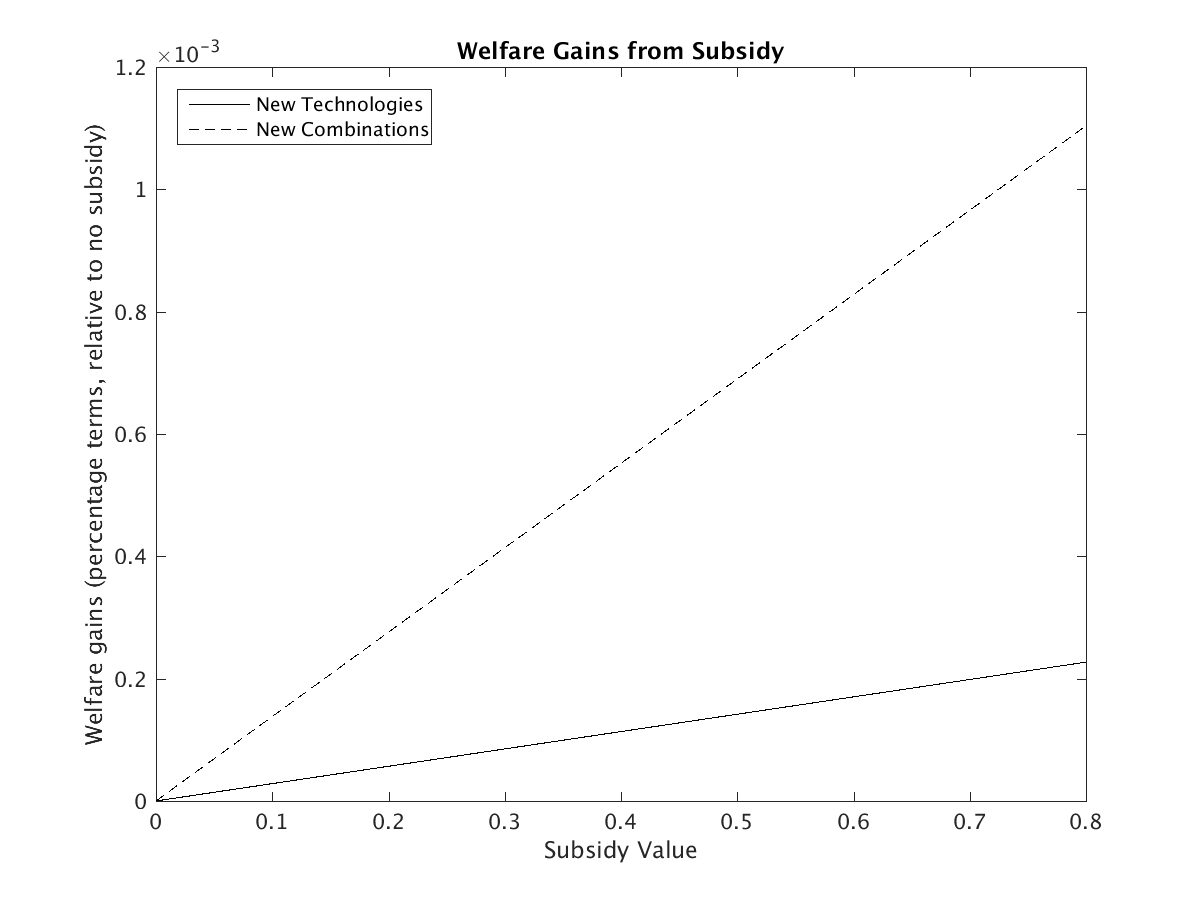
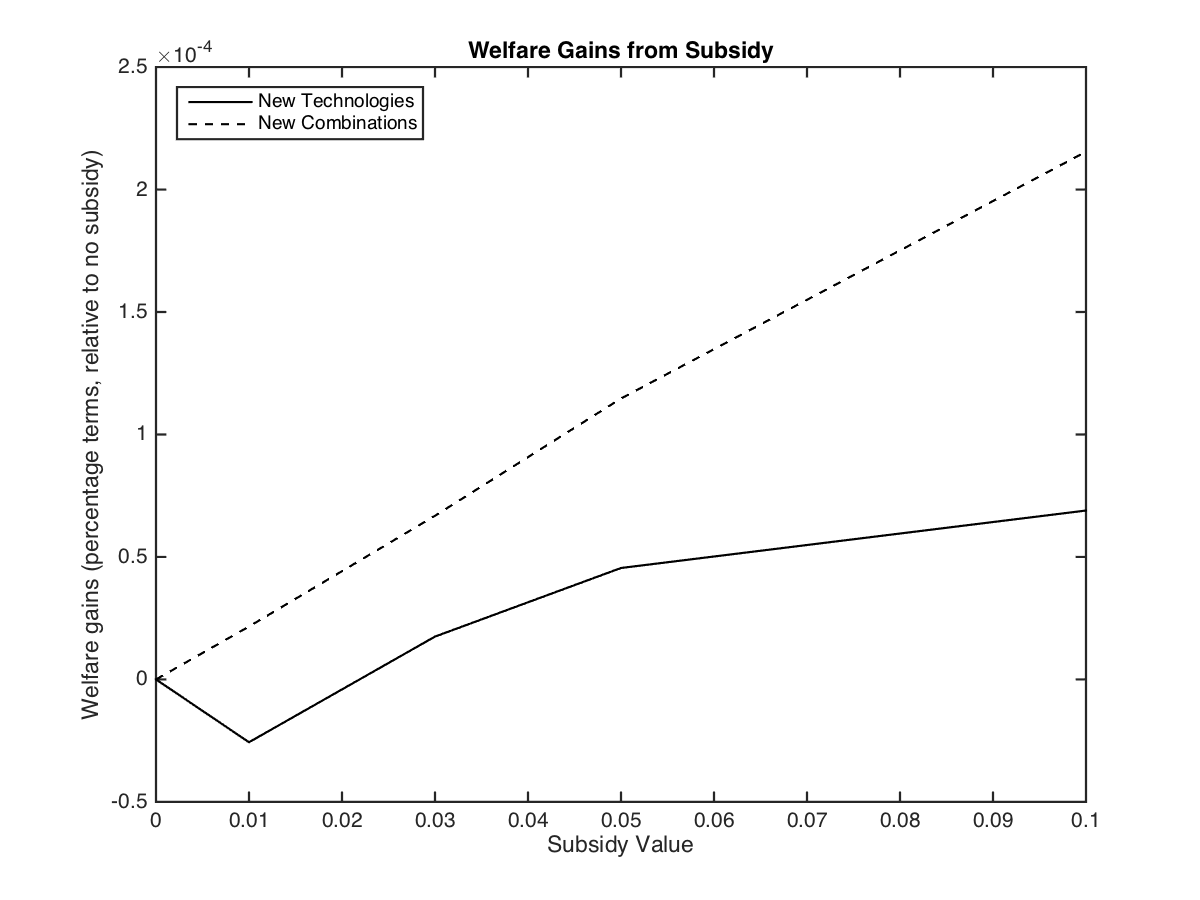
paralell loops in simulation

diff --git a/simulations/consolidated/run_simulation.m b/simulations/consolidated/run_simulation.m
@@ -2,9 +2,10 @@ clear
 close all
 clc
 
-%cd('/Users/alexandresollaci/Documents/UChicago/RA/Combinatorial growth/combinatorial_growth/simulations/consolidated/')
+cd('/Users/alexandresollaci/Documents/UChicago/RA/Combinatorial growth/combinatorial_growth/simulations/consolidated/')
 
-rng(10)
+%delete(gcp)
+%parpool(2)
 
 %% Parameters
 
@@ -30,7 +31,7 @@ params = v2struct(etaH, etaM, etaL, tau, phi, lambda, kappa, xi, zeta, gamma, ep
 
 beg_inv = exp(6);       % number of inventors, chosen to match initial number of patents
 beg_year = 1836;        % beginning year
-Tbase = 180;            % number of periods to run baseline simulation
+Tbase = 20;            % number of periods to run baseline simulation
 Tsubs = 20;             % number of periods to run subsidy simulation
 Tmax = Tbase + Tsubs;
 
@@ -72,34 +73,36 @@ policy_cost = zeros(Tmax, num_simul);
 nrofpatents = zeros(Tmax, num_simul);
 welfare = zeros(2, num_simul);
 
-subsidy_vals = [.05 .1 .15 .2];
+subsidy_vals = [.01 .03 .05 .1];
 subsidy = [subsidy_vals' zeros(length(subsidy_vals),1); ...
             zeros(length(subsidy_vals),1) subsidy_vals']; % subsidy for [new tech, new comb]
 
-patmat_subs = zeros(Tmax+1, 4, num_simul, length(subsidy));
-growth_subs = zeros(Tmax, num_simul, length(subsidy));
-consumption_subs = zeros(Tmax, num_simul, length(subsidy));
-GDP_subs = zeros(Tmax, num_simul, length(subsidy));
-firm_cost_subs = zeros(Tmax, num_simul, length(subsidy));
-inventor_cost_subs = zeros(Tmax, num_simul, length(subsidy));
-policy_cost_subs = zeros(Tmax, num_simul, length(subsidy));
-nrofpatents_subs = zeros(Tmax, num_simul, length(subsidy));
-welfare_subs = zeros(2, num_simul, length(subsidy));
+patmat_subs = zeros(Tmax+1, 4, length(subsidy), num_simul);
+growth_subs = zeros(Tmax, length(subsidy), num_simul);
+consumption_subs = zeros(Tmax, length(subsidy), num_simul);
+GDP_subs = zeros(Tmax, length(subsidy), num_simul);
+firm_cost_subs = zeros(Tmax, length(subsidy), num_simul);
+inventor_cost_subs = zeros(Tmax, length(subsidy), num_simul);
+policy_cost_subs = zeros(Tmax, length(subsidy), num_simul);
+nrofpatents_subs = zeros(Tmax, length(subsidy), num_simul);
+welfare_subs = zeros(2, length(subsidy), num_simul);
+
+pat0 = repmat([beg_year, 1, 0, 0], 1, 1, length(subsidy));
 
 for s = 1:num_simul
     seed1 = 1000*rand;
     model_plain = simulate_model(params, Tbase, beg_year, beg_inv, Mmat0, patmat0, state0, quality0, [0 0], seed1);
 
+    % generate variables that will be input into second half of simulations (with subsidy)
     Mmat = model_plain.Mmat;
     state = model_plain.state;
     quality = model_plain.quality;
     nrofinv = model_plain.nrofinv;
-
     seed2 = 1000*rand;
     
     model_subs_0 = simulate_model(params, Tsubs, beg_year+Tbase, nrofinv, Mmat, patmat1, state, quality, [0 0], seed2);
 
-    % In period 0, all ideas are new.
+    % store result of simulation without subsidy
     patmat(:,:,s) = [[beg_year, 1, 0, 0]; model_plain.patmat; model_subs_0.patmat];
     nrofpatents(:,s) = [model_plain.nrofpatents; model_subs_0.nrofpatents];
     consumption(:,s) = [model_plain.consumption; model_subs_0.consumption];
@@ -110,22 +113,45 @@ for s = 1:num_simul
     growth(:,s) = [model_plain.growth; model_subs_0.growth];
     welfare(:,s) = [model_plain.welfare; model_subs_0.welfare];
 
-    for v = 1:length(subsidy)
+    % Initialize variables for inner loop (parfor)
+    patmat_temp = zeros(Tsubs, 4, length(subsidy));
+    nrofpatents_temp = zeros(Tsubs, length(subsidy));
+    consumption_temp = zeros(Tsubs, length(subsidy));
+    GDP_temp = zeros(Tsubs, length(subsidy));
+    firm_cost_temp = zeros(Tsubs, length(subsidy));
+    inventor_cost_temp = zeros(Tsubs, length(subsidy));
+    policy_cost_temp = zeros(Tsubs, length(subsidy));
+    growth_temp = zeros(Tsubs, length(subsidy));
+    welfare_temp = zeros(1, length(subsidy));
+
+    parfor v = 1:length(subsidy)
 
         model_subs_1 = simulate_model(params, Tsubs, beg_year+Tbase, nrofinv, Mmat, patmat1, state, quality, subsidy(v,:), seed2);
 
-        patmat_subs(:,:,s,v) = [[beg_year, 1, 0, 0]; model_plain.patmat; model_subs_1.patmat];
-        nrofpatents_subs(:,s,v) = [model_plain.nrofpatents; model_subs_1.nrofpatents];
-        consumption_subs(:,s,v) = [model_plain.consumption; model_subs_1.consumption];
-        GDP_subs(:,s,v) = [model_plain.GDP; model_subs_1.GDP];
-        firm_cost_subs(:,s,v) = [model_plain.firm_cost; model_subs_1.firm_cost];
-        inventor_cost_subs(:,s,v) = [model_plain.inventor_cost; model_subs_1.inventor_cost];
-        policy_cost_subs(:,s,v) = [model_plain.policy_cost; model_subs_1.policy_cost];
-        growth_subs(:,s,v) = [model_plain.growth; model_subs_1.growth];
-        welfare_subs(:,s,v) = [model_plain.welfare; model_subs_1.welfare];
+        % store values in temporary variables so that parfor does generate a classification error
+        patmat_temp(:,:,v) = model_subs_1.patmat;
+        nrofpatents_temp(:,v) = model_subs_1.nrofpatents;
+        consumption_temp(:,v) = model_subs_1.consumption;
+        GDP_temp(:,v) = model_subs_1.GDP;
+        firm_cost_temp(:,v) = model_subs_1.firm_cost;
+        inventor_cost_temp(:,v) = model_subs_1.inventor_cost;
+        policy_cost_temp(:,v) = model_subs_1.policy_cost;
+        growth_temp(:,v) = model_subs_1.growth;
+        welfare_temp(v) = model_subs_1.welfare;
 
     end
-    
+
+    % store values of the model with subsidy
+    patmat_subs(:,:,:,s) = [pat0; repmat(model_plain.patmat,1,1,length(subsidy)); patmat_temp];
+    nrofpatents_subs(:,:,s) = [repmat(model_plain.nrofpatents,1,length(subsidy)); nrofpatents_temp];
+    consumption_subs(:,:,s) = [repmat(model_plain.consumption,1,length(subsidy)); consumption_temp];
+    GDP_subs(:,:,s) = [repmat(model_plain.GDP,1,length(subsidy)); GDP_temp];
+    firm_cost_subs(:,:,s) = [repmat(model_plain.firm_cost,1,length(subsidy)); firm_cost_temp];
+    inventor_cost_subs(:,:,s) = [repmat(model_plain.inventor_cost,1,length(subsidy)); inventor_cost_temp];
+    policy_cost_subs(:,:,s) = [repmat(model_plain.policy_cost,1,length(subsidy)); policy_cost_temp];
+    growth_subs(:,:,s) = [repmat(model_plain.growth,1,length(subsidy)); growth_temp];
+    welfare_subs(:,:,s) = [repmat(model_plain.welfare,1,length(subsidy)); welfare_temp];
+
     display(['SIMULATION NUMBER ' num2str(s)])
 end
 
@@ -139,15 +165,15 @@ policy_cost = mean(policy_cost,2);
 growth = mean(growth,2);
 welfare = mean(welfare,2);
 
-patent_shares_subs = mean(patmat_subs,3);
-nrofpatents_subs = mean(nrofpatents_subs,2);
-GDP_subs = mean(GDP_subs,2);
-firm_cost_subs = mean(firm_cost_subs,2);
-consumption_subs = mean(consumption_subs,2);
-inventor_cost_subs = mean(inventor_cost_subs,2);
-policy_cost_subs = mean(policy_cost_subs,2);
-growth_subs = mean(growth_subs,2);
-welfare_subs = mean(welfare_subs,2);
+patent_shares_subs = mean(patmat_subs,4);
+nrofpatents_subs = mean(nrofpatents_subs,3);
+GDP_subs = mean(GDP_subs,3);
+firm_cost_subs = mean(firm_cost_subs,3);
+consumption_subs = mean(consumption_subs,3);
+inventor_cost_subs = mean(inventor_cost_subs,3);
+policy_cost_subs = mean(policy_cost_subs,3);
+growth_subs = mean(growth_subs,3);
+welfare_subs = mean(welfare_subs,3);
 
 %% PLOTS
 
@@ -190,13 +216,11 @@ saveas(gcf, 'figures/patents.png')
 
 % Welfare gains with subsidy
 
-welfareNT = squeeze(welfare_subs(:,:,1:length(subsidy_vals)));
-welfareNC = squeeze(welfare_subs(:,:,length(subsidy_vals)+1:2*length(subsidy_vals)));
-%welfareBOTH = squeeze(welfare_subs(:,:,2*length(subsidy_vals)+1:end));
+welfareNT = welfare_subs(:,1:length(subsidy_vals));
+welfareNC = welfare_subs(:,length(subsidy_vals)+1:2*length(subsidy_vals));
 
 Delta_welfareNT = (welfareNT - repmat(welfare,1,length(subsidy_vals)))./repmat(welfare,1,length(subsidy_vals));
 Delta_welfareNC = (welfareNC - repmat(welfare,1,length(subsidy_vals)))./repmat(welfare,1,length(subsidy_vals));
-%Delta_welfareBOTH = (welfareBOTH - repmat(welfare,1,length(subsidy_vals)))./repmat(welfare,1,length(subsidy_vals));
 
 figure(5)
 plot([0,subsidy_vals], [0,Delta_welfareNT(2,:)], '-k', [0,subsidy_vals], [0,Delta_welfareNC(2,:)], '--k')
